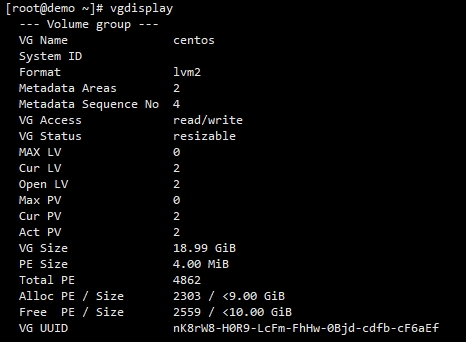
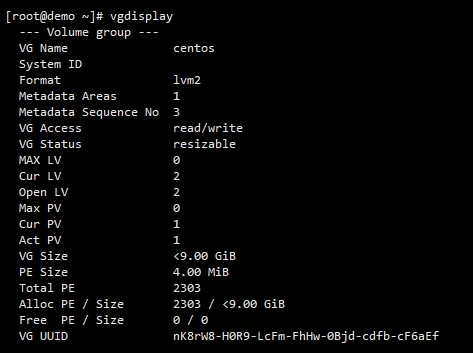
chench

Changed region(s): [[0.0, 0.0, 0.9614, 0.9942], [0.3605, 0.0877, 0.4807, 0.1462]]

diff --git a/architecture/big_data/hbase/hbase_install.md b/architecture/big_data/hbase/hbase_install.md
@@ -1,0 +1,73 @@
+# HBase install
+
+
+- /etc/profile
+```sh
+export HBASE_HOME=/opt/hbase/hbase-1.4.14
+export PATH=$PATH:$HBASE_HOME/bin
+
+```
+
+- conf/hbase-env.sh
+
+```sh
+export JAVA_HOME=/opt/java/jdk1.8.0_202
+export HBASE_MANAGES_ZK=false
+
+```
+
+```xml
+
+    <property>
+        <name>hbase.rootdir</name>
+        <value>hdfs://demo:8020/hbase</value>
+    </property>
+    <property>
+        <name>hbase.tmp.dir</name>
+        <value>/opt/hbase/hbase-1.4.14/tmp</value>
+    </property>
+    <property>
+        <name>hbase.master.info.port</name>
+        <value>16010</value>
+    </property>
+    <property>
+        <name>hbase.cluster.distributed</name>
+        <value>true</value>
+    </property>
+    <property>
+        <name>hbase.unsafe.stream.capability.enforce</name>
+        <value>false</value>
+    </property>
+    <property>
+        <name>hbase.zookeeper.quorum</name>
+        <value>demo:2181</value>
+    </property>
+    <property>
+        <name>hbase.zookeeper.property.clientPort</name>
+        <value>2181</value>
+    </property>
+    <property>
+        <name>hbase.zookeeper.property.dataDir</name>
+        <value>/opt/hbase/hbase-1.4.14/data</value>
+    </property>
+
+```
+
+
+
+- ./bin/start-hbase.sh
+    - http://192.168.10.171:16010/
+
+---
+
+```sh
+
+./bin/hbase shell
+
+
+list_namespace
+
+list
+
+
+```

diff --git a/software/linux/disk_extend.md b/software/linux/disk_extend.md
@@ -11,42 +11,47 @@
 
 ![](./disk_extend/fdisk_help.jpg)
 
-- `p -> n -> p -> enter -> enter -> p -> w`
+- `p -> n -> p -> enter -> enter -> enter -> p -> w`
 
 ![](./disk_extend/fdisk_command.jpg)
+
+- `reboot`
 
 ---
 
 ![](./disk_extend/vgdisplay_before.jpg)
-- `reboot`
+![](./disk_extend/pvdisplay_before.jpg)
+
 - `pvcreate /dev/sda3`
 - `vgextend centos /dev/sda3`
 
 ![](./disk_extend/create_extend.jpg)
+
 - PV(Physical Volume)
 - VG(Volume Group)
 
+![](./disk_extend/vgdisplay_after.jpg)
 
-![](./disk_extend/pvdisplay.jpg)
+![](./disk_extend/pvdisplay_after.jpg)
 
 
 ---
 
-
-- `Free PE               2559`
 - `lvextend -l+2559 /dev/mapper/centos-root`
+
 ![](./disk_extend/lvextend.jpg)
 
-![](./disk_extend/vgdisplay_after.jpg)
+
 
 ---
 - 查看文件系统格式:`cat /etc/fstab | grep centos-root`
+
 ![](./disk_extend/fstab.jpg)
 
-- `xfs_growfs /dev/mapper/centos-root`
+- CentOS 7.x:`xfs_growfs /dev/mapper/centos-root`
 
 ![](./disk_extend/xfs_growfs.jpg)
-`
+
 - CentOS 6.x:`resize2fs /dev/mapper/centos-root`
 
 

diff --git a/database/mysql/mysql_binary.md b/database/mysql/mysql_binary.md
@@ -6,35 +6,15 @@
 
 ---
 
-
-
 ```sh
-
-./bin/mysqld --defaults-file=/opt/mysql/mysql-8.0.16/my.cnf --initialize --console
-
-./bin/mysqld --defaults-file=/opt/mysql/mysql-8.0.16/my.cnf
 
 ./bin/mysqld_safe --defaults-file=/opt/mysql/mysql-8.0.16/my.cnf
 
-
 ./bin/mysql -S /opt/mysql/mysql-8.0.16/data/mysql.sock
-```
 
-
-```sh
 ./bin/mysqladmin -S /opt/mysql/mysql-8.0.16/data/mysql.sock -u root -p shutdown
 
-
-./bin/mysqld --defaults-file=./etc/my.cnf --initialize --console
-
-# /etc/my.cnf
-./bin/mysqld --initialize --console
-
-./support-files/mysql.server start
-
-
 ```
-
 ---
 ## mysql
 > 客户端

diff --git a/architecture/big_data/hbase/hbase_command.md b/architecture/big_data/hbase/hbase_command.md
@@ -1,0 +1,48 @@
+# HBase command
+
+```sh
+./bin/hbase shell
+hbase(main):001:0> help
+
+# command_group
+help command_group
+# command
+help command
+
+```
+
+
+---
+## namespace
+```sh
+list_namespace
+
+create_namespace 'n1'
+
+
+
+```
+
+
+---
+## table
+```sh
+list
+list_namespace_tables 'n1'
+
+
+exists 'n1:t1'
+
+create 'n1:t1','cf1','cf2','cf3'
+
+put 'n1:t1','row_key','cf1:c1','value1'
+get 'n1:t1','row_key'
+
+
+count 'n1:t1'
+
+scan 'n1:t1'
+
+
+
+```

diff --git a/database/mysql/mysql_install.md b/database/mysql/mysql_install.md
@@ -171,4 +171,29 @@ vim /etc/my.cnf
 
 
 ```
+- CentOS 7.x install MySQL 7.x
+- 系统重启删除/var/run/mysqld/（/var/run下的文件夹位于内存中）
 
+
+```
+
+
+
+```
+
+
+
+
+
+```sh
+
+# 安装时按配置初始化
+./bin/mysqld --defaults-file=./etc/my.cnf --initialize --console
+
+# /etc/my.cnf
+./bin/mysqld --initialize --console
+
+./support-files/mysql.server start
+
+
+```

diff --git a/middleware/dolphinscheduler.md b/middleware/dolphinscheduler.md
@@ -26,9 +26,6 @@ apt install psmisc
 
 ```sql
 CREATE DATABASE dolphinscheduler DEFAULT CHARACTER SET utf8 DEFAULT COLLATE utf8_general_ci;
-GRANT ALL PRIVILEGES ON dolphinscheduler.* TO 'root'@'%' IDENTIFIED BY 'chench';
-GRANT ALL PRIVILEGES ON dolphinscheduler.* TO 'root'@'localhost' IDENTIFIED BY 'chench';
-flush privileges;
 
 ```
 

diff --git a/architecture/big_data/hbase/hbase.md b/architecture/big_data/hbase/hbase.md
@@ -1,0 +1,15 @@
+# HBase
+> Hadoop DataBase
+
+## HBase & Hadoop & JDK
+- https://hbase.apache.org/book.html#basic.prerequisites
+
+---
+
+
+- Namespace
+- Table
+- Column Family
+- Row
+
+

diff --git a/middleware/zookeeper/zookeeper.md b/middleware/zookeeper/zookeeper.md
@@ -31,7 +31,7 @@ create [-e|s] path data [acl]
 -e:临时节点
 -s:持久节点
 
-create /root/node/path 'data'
+create -s /root/node/path 'data'
 
 # 删除节点
 delete path

diff --git a/language/jvm/java/tool/async_profiler.md b/language/jvm/java/tool/async_profiler.md
@@ -1,0 +1,3 @@
+# async-profiler
+
+- https://github.com/jvm-profiling-tools/async-profiler
